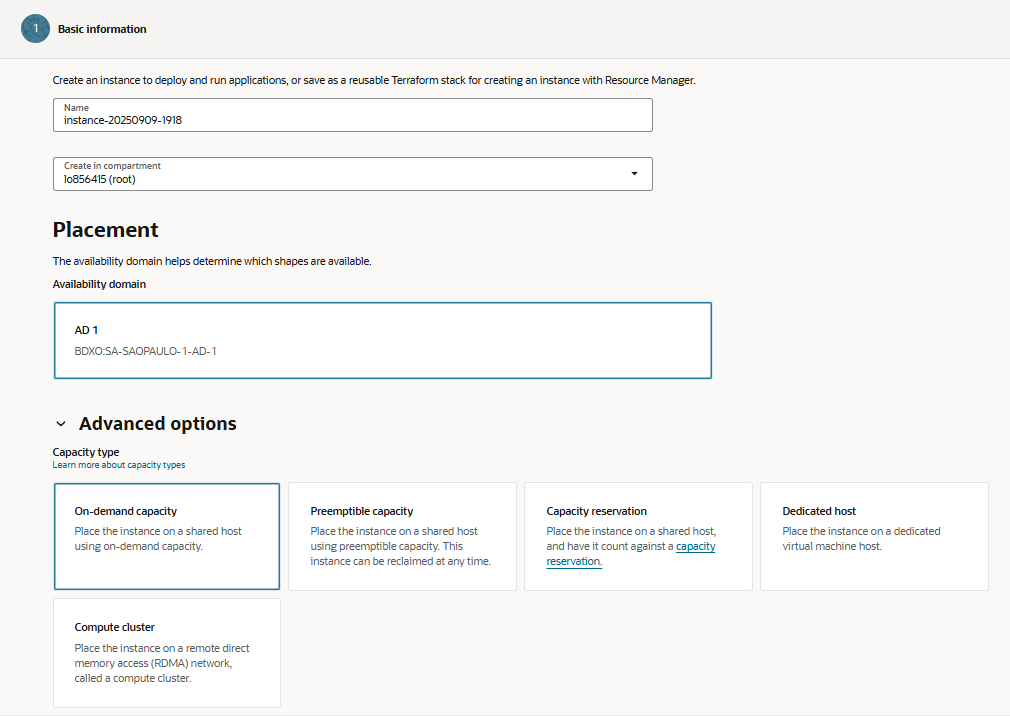
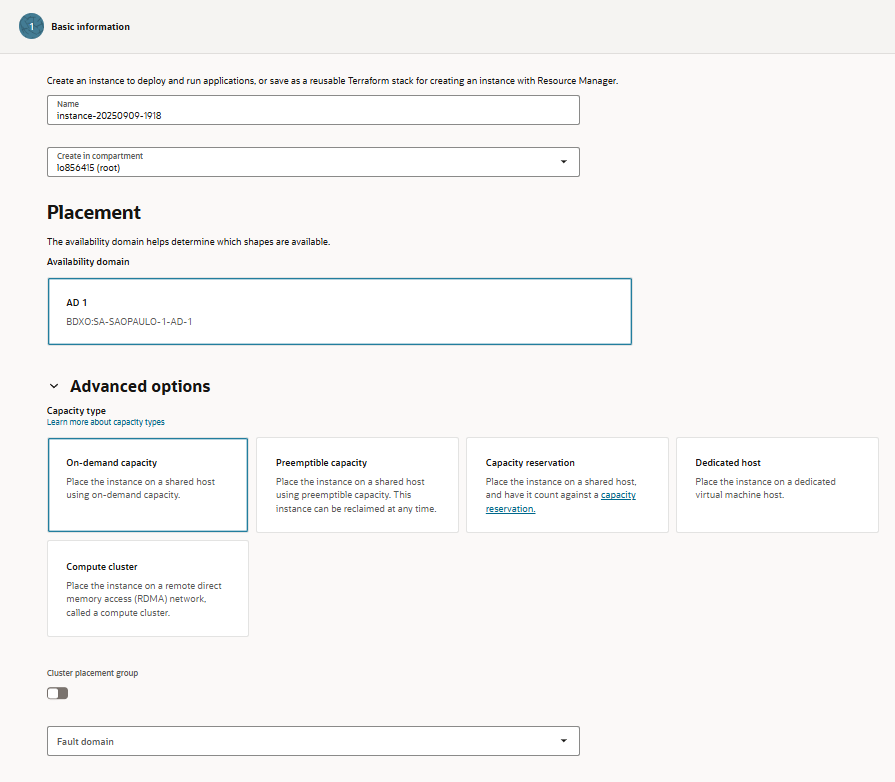
feat: uso de imagens e revisão

diff --git a/README.md b/README.md
@@ -64,3 +64,55 @@ Conjunto de várias instâncias Bare Metal ou instâncias com RDMA (Remote Direc
 **Desvantagem**: complexo e caro; não está incluso no Always Free.
 
 > somente os **recursos específicos** de VM do tipo `Always Free` estão isentos de cobrança.
+
+### Cluster Placement Group (Grupo de Posicionamento de Cluster) - **Opção de Marcar**
+
+É um recurso que mantém várias instâncias muito próximas fisicamente dentro do mesmo data center.
+
+**Objetivo**: reduzir a latência de comunicação entre essas VMs. Ideal para aplicações que precisam trocar dados muito rápido, como bancos de dados distribuídos ou sistemas de alta performance.
+
+**Vantagem**: comunicação extremamente rápida entre instâncias.<br>
+**Desvantagem**: menor flexibilidade de alocação de recursos, e geralmente só disponível em instâncias pagas (não no Always Free).
+
+### Fault Domain (Domínio de Falha) - **Opção de Seleção**
+
+é uma subdivisão dentro de uma Availability Domain (uma grande zona dentro do data center). Cada fault domain tem hardware separado, racks diferentes, fontes de energia diferentes, etc.
+
+**Objetivo**: aumentar a disponibilidade. Se uma falha afetar um rack, as VMs em outros fault domains continuam funcionando.
+
+**Vantagem**: mais resiliência e tolerância a falhas sem precisar de backup manual.<br>
+**Desvantagem**: não melhora desempenho de rede como o cluster placement group, e só funciona se você distribuir suas VMs entre fault domains.
+
+![Definições de Image e Shape](images/img&shape.png)
+
+### Image (Imagem)
+
+É o sistema operacional que vai rodar na VM.
+
+Determina: o software base que a instância vai usar para funcionar.
+Ex:
+
+Oracle Linux 9<br>
+Build: 2025.08.31-0<br>
+Security: Shielded instance (mais proteção contra ataques e manipulação)
+
+### Shape (Formato)
+
+é o “tamanho” ou “configuração” da máquina virtual.
+
+Determina:
+
+Número de CPUs (OCPUs)<br>
+Quantidade de memória RAM<br>
+Largura de banda de rede<br>
+Outros recursos como GPU, se aplicável<br>
+
+Ex: VM.Standard.E2.1.Micro
+
+1 OCPU (1 CPU virtual)<br>
+1 GB de RAM<br>
+0.48 Gbps de rede
+
+> Sempre Free-eligible, ou seja, essa configuração pode ser usada **sem gerar cobrança**.<br>
+
+> Não vou abordar as Opções Avançadas para focar mais nos recursos principais para a criação da VM.
